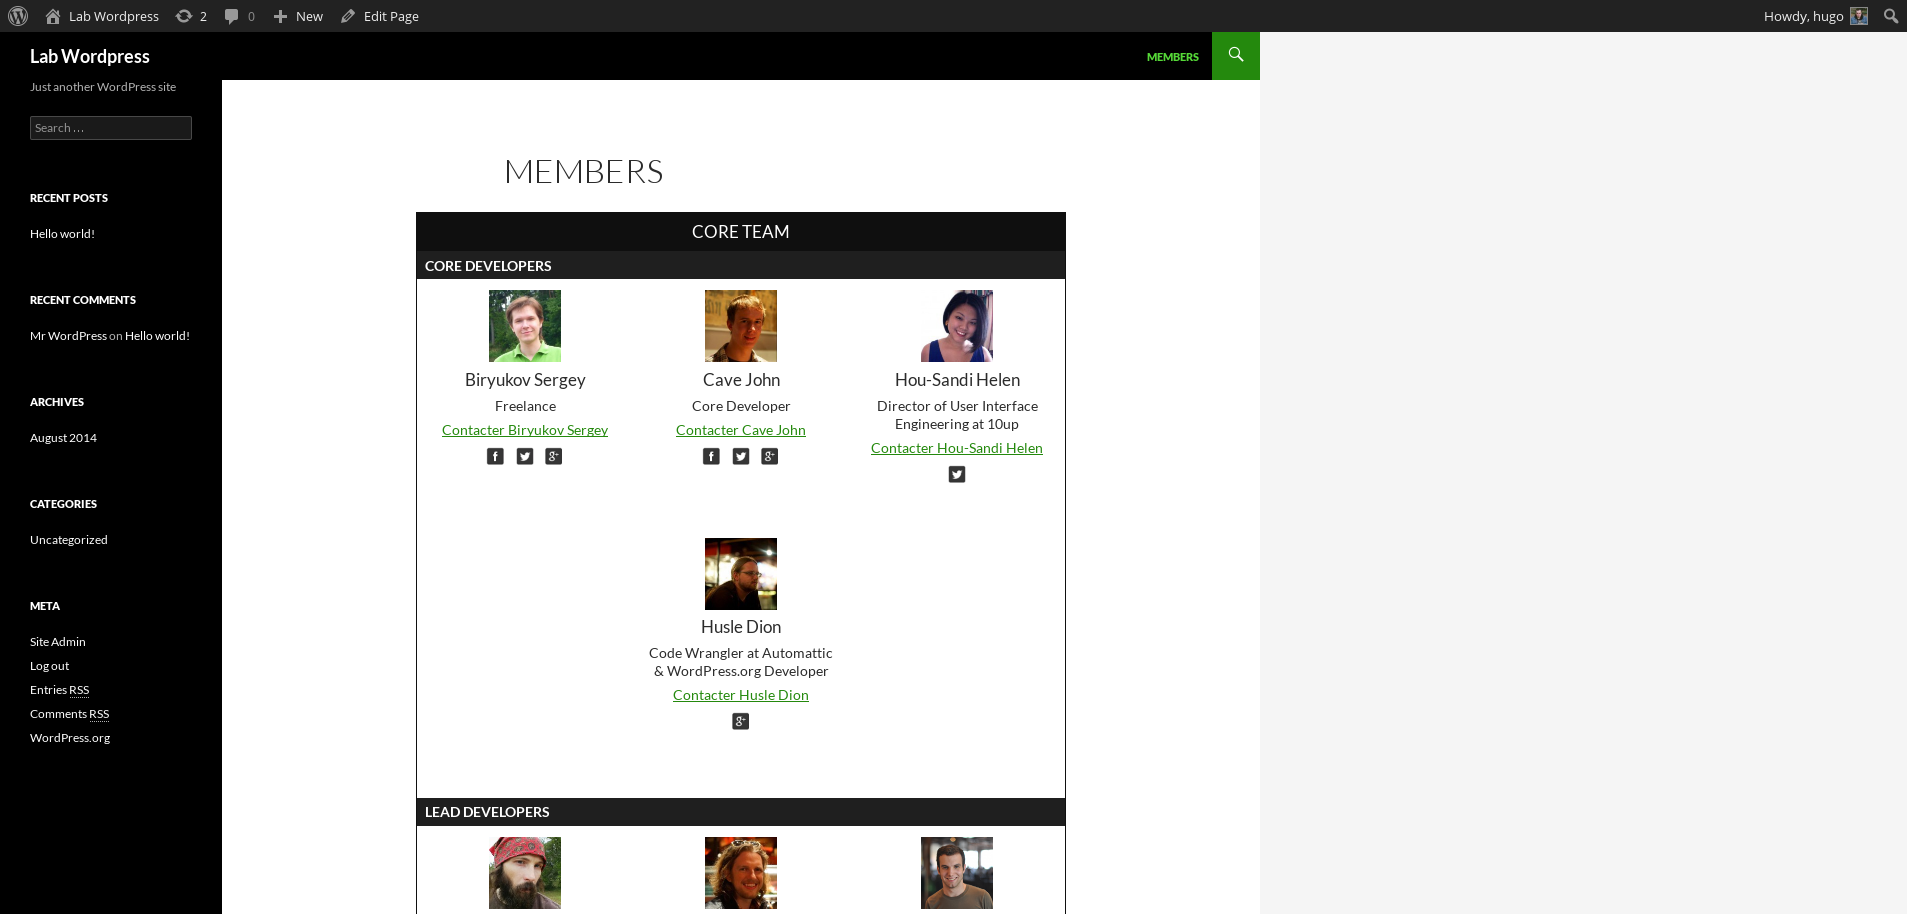
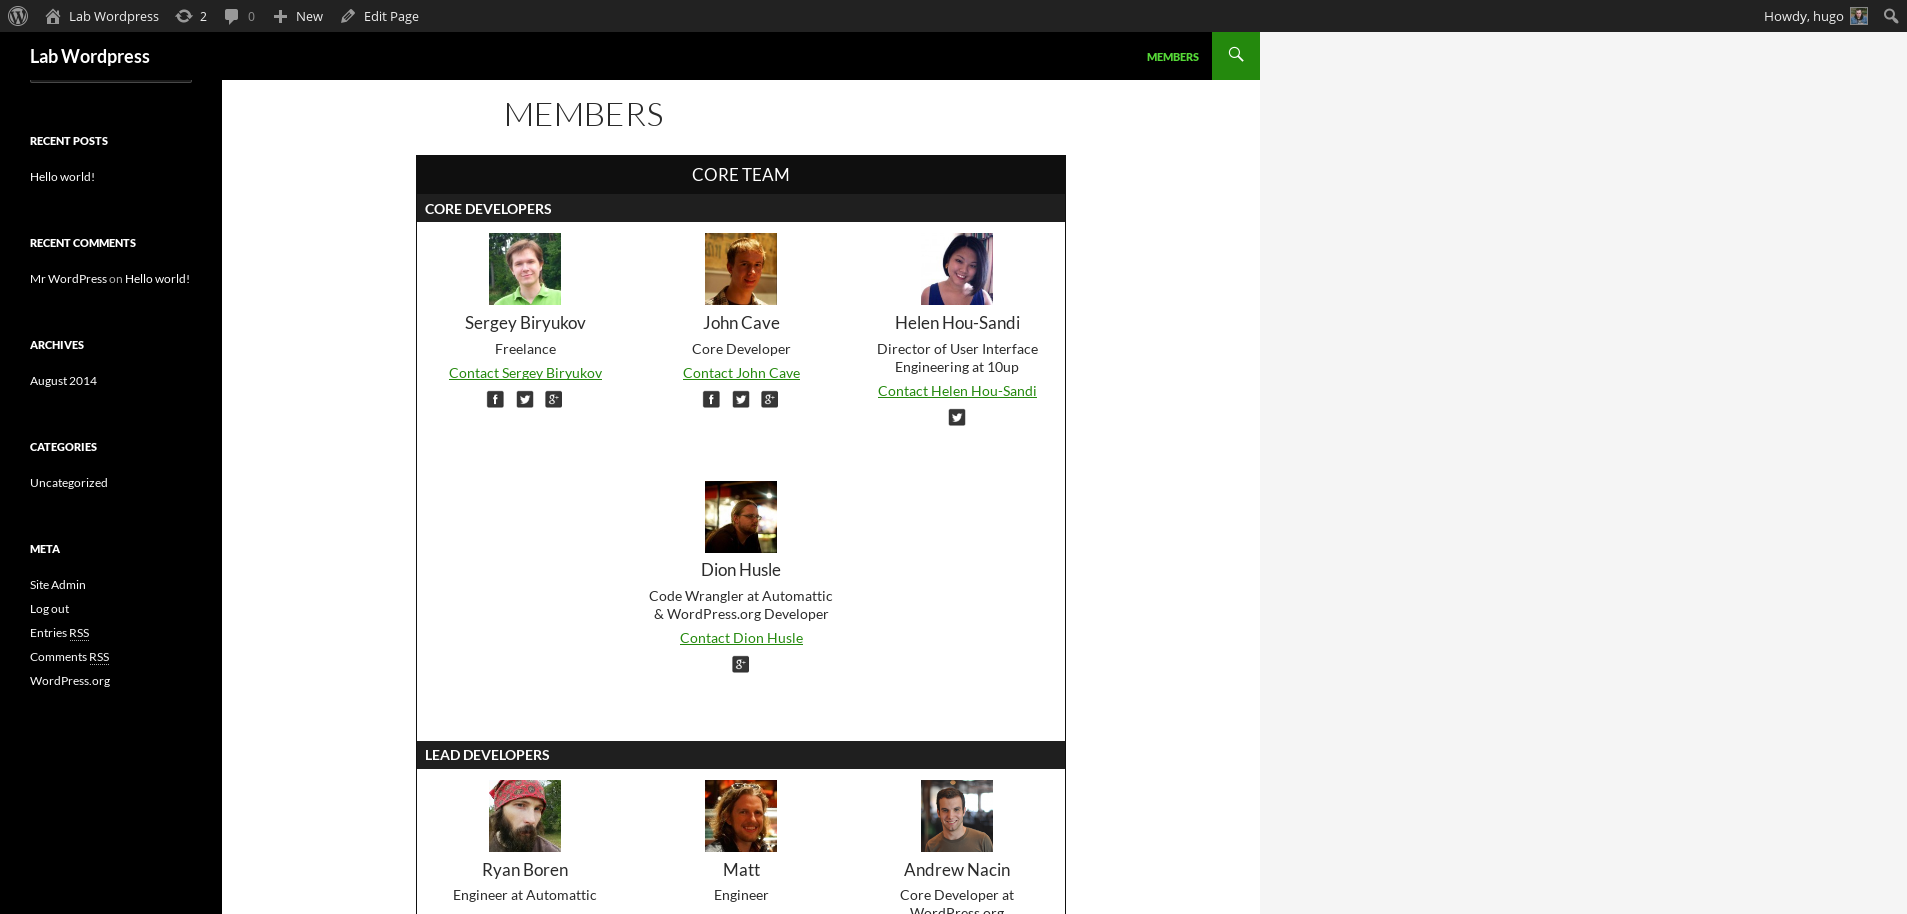
remove french wording + firstname is first + update screenshot

diff --git a/public/templates/member.php b/public/templates/member.php
@@ -27,17 +27,17 @@
                 <td colspan="5" rowspan="" headers="">
                         <?php $fullname = null;
                         if( isset($postmeta['tb_lastname']) || isset($postmeta['tb_firstname']) ) {
-                            if(isset($postmeta['tb_lastname']) && !isset($postmeta['hideit_tb_lastname'])){
-                                $fullname .= $postmeta['tb_lastname'][0];
+                            if(isset($postmeta['tb_firstname']) && !isset($postmeta['hideit_tb_firstname'])){
+                                $fullname .= $postmeta['tb_firstname'][0];
                             }
                             if(isset($postmeta['tb_lastname']) && isset($postmeta['tb_firstname'])){
                                 $fullname .= ' ';
                             }
-                            if(isset($postmeta['tb_firstname']) && !isset($postmeta['hideit_tb_firstname'])){
-                                $fullname .= $postmeta['tb_firstname'][0];
+                            if(isset($postmeta['tb_lastname']) && !isset($postmeta['hideit_tb_lastname'])){
+                                $fullname .= $postmeta['tb_lastname'][0];
                             }
                             if( isset($postmeta['tb_invert']) && isset($postmeta['tb_lastname']) && isset($postmeta['tb_firstname']) ){
-                                $fullname = $postmeta['tb_firstname'][0] . ' ' . $postmeta['tb_lastname'][0];
+                                $fullname = $postmeta['tb_lastname'][0] . ' ' . $postmeta['tb_firstname'][0];
                             }
                         } ?>
                         <?php echo $fullname; ?>
@@ -60,7 +60,7 @@
                                 <a href="javascript:void(0);" onclick="hide('contact-pop');" title="Close"><?php _e('Close this window', The_Board::get_instance()->get_plugin_slug()); ?></a>
                                 <?php echo do_shortcode('[contact-form-7 id="'.$postmeta['tb_contact'][0].'"]'); ?>
                             </div>
-                            <a href="javascript:void(0);" onclick="pop('contact-pop');" title="<?php echo $fullname; ?>"><?php echo __('Contacter', The_Board::get_instance()->get_plugin_slug() ).' '.$fullname; ?></a>
+                            <a href="javascript:void(0);" onclick="pop('contact-pop');" title="<?php echo $fullname; ?>"><?php echo __('Contact', The_Board::get_instance()->get_plugin_slug() ).' '.$fullname; ?></a>
                         </td>
                     </tr>
                 <?php } ?>
